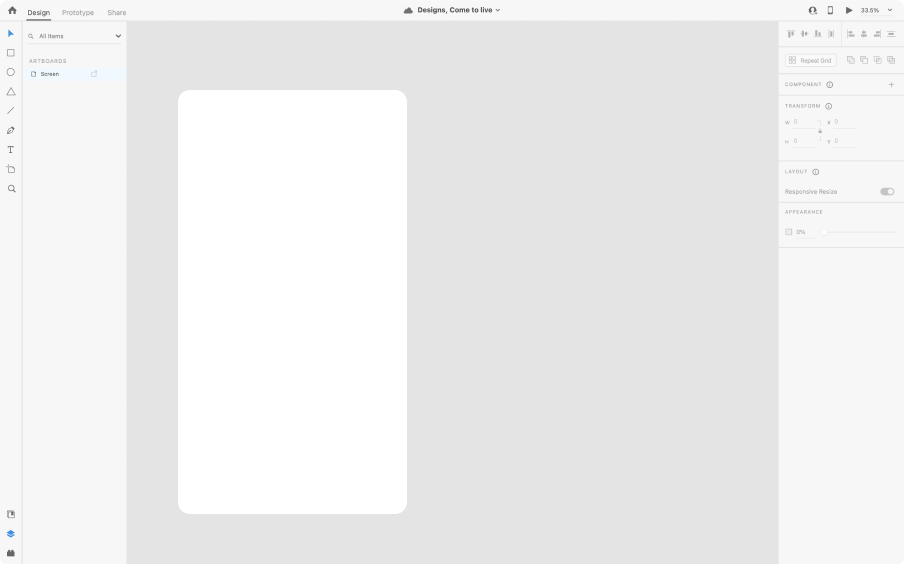
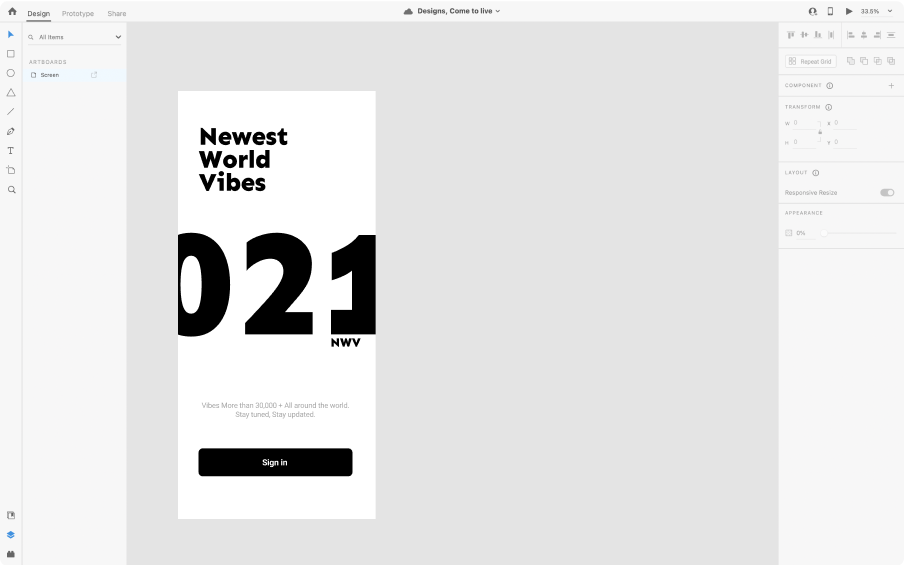
modify : source & code scroller

diff --git a/web/sections/bridged/bridged-introduce/index.tsx b/web/sections/bridged/bridged-introduce/index.tsx
@@ -96,6 +96,9 @@ const BridgedIntroduce = () => {
                 width="390"
                 height="788"
               />
+              <IphoneAppView>
+                <Image src="/inframe.png" width="auto" height="auto" />
+              </IphoneAppView>
               <GradientView>
                 <Image src="/gradient-live.png" width="478" height="814" />
               </GradientView>
@@ -121,6 +124,9 @@ const BridgedIntroduce = () => {
             <IphoneView className="app">
               <Image src="/simluator.png" width="auto" height="auto" />
             </IphoneView>
+            <IphoneAppView>
+              <Image src="/inframe.png" width="auto" height="auto" />
+            </IphoneAppView>
             <GradientView>
               <Image src="/gradient-live.png" width="1440" height="1040" />
             </GradientView>
@@ -133,14 +139,47 @@ const BridgedIntroduce = () => {
 
 export default BridgedIntroduce;
 
-const PlatformMotions = styled(Box)`
-  width: 280px;
-  height: 350px;
-  background: #f3f3f3;
-  border-radius: 12px;
-  position: absolute;
-  left: -5.5%;
-  top: 15%;
+const IphoneAppView = styled(Box)`
+    position: absolute;
+    top: 2%;
+    right: 8%;
+
+    img {
+      width: 280px !important;
+      height: 620px !important;
+    }
+
+  @media (max-width: 720px) {
+    right: 21.5%;
+    img {
+      width: 260px !important;
+      height: 540px !important;
+    }
+  }
+
+  @media (max-width: 430px) {
+    right: 16%;
+    img {
+      width: 260px !important;
+      height: 540px !important;
+    }
+  }
+
+  @media (max-width: 375px) {
+    right: 11.5%;
+    img {
+      width: 260px !important;
+      height: 540px !important;
+    }
+  }
+
+  @media (max-width: 320px) {
+    right: 4%;
+    img {
+      width: 260px !important;
+      height: 540px !important;
+    }
+  }
 `;
 
 const Platforms = styled(Flex)`
@@ -152,6 +191,7 @@ const Platforms = styled(Flex)`
     background-color: #000;
     margin-left: 24px;
   }
+  
 `;
 
 const IntroduceWrapper = styled(Flex)`

diff --git a/web/sections/bridged/bridged-introduce/design-platform/index.tsx b/web/sections/bridged/bridged-introduce/design-platform/index.tsx
@@ -13,8 +13,9 @@ const DesignPlatforms = () => {
     <Flex height="100%" flex={1} flexDirection="column" alignItems="flex-start" justifyContent="flex-end">
       <PlatformView className="no-drag">
         <Image src={`/live-desing-apps/${currentPlatform}.png`} width="904" height="565" />
-        <PlatformPreview bg="#F3F3F3">
-      </PlatformPreview>
+        <PlatformPreview bg="#fff">
+          <Image src="/design_source.png" width="440px" height="540px" />
+        </PlatformPreview>
       </PlatformView>
       <Platforms>
         {renderPlatforms.map(i => <Image key={i} className="cursor" onClick={() => setCurrentPlatform(i)} src={`/platform-icons/${i}/${currentPlatform === i ? "default" : "grey"}.png`} width="24" height="24" />)}
@@ -40,6 +41,13 @@ const PlatformPreview = styled(Flex)`
   position: absolute;
   border-radius: 12px;
   left: 40%;
+  align-items: center;
+  justify-content: center;
+
+  div {
+    width: 150px;
+    height: 178px;
+  }
 
   @media (max-width: 800px) {
     width: 400px;

diff --git a/web/sections/bridged/bridged-introduce/code-framework/index.tsx b/web/sections/bridged/bridged-introduce/code-framework/index.tsx
@@ -60,11 +60,9 @@ const CodeFrameworks = () => {
           <span />
         </header>
         <div className="body">
-          <main>
             <SyntaxHighlighter language={currentPlatform.lang} style={a11yDark}>
               {currentPlatform.source}
             </SyntaxHighlighter>
-          </main>
         </div>
       </CodeView>
       <Platforms>
@@ -144,10 +142,11 @@ const CodeView = styled(Box)`
     align-items: center;
     justify-content: center;
 
-    main {
-      width: 95%;
-      height: 95%;
-    }
+    pre {
+        width: 95%;
+        height: 95%;
+        padding: 0px;
+      }
   }
 `;
 
